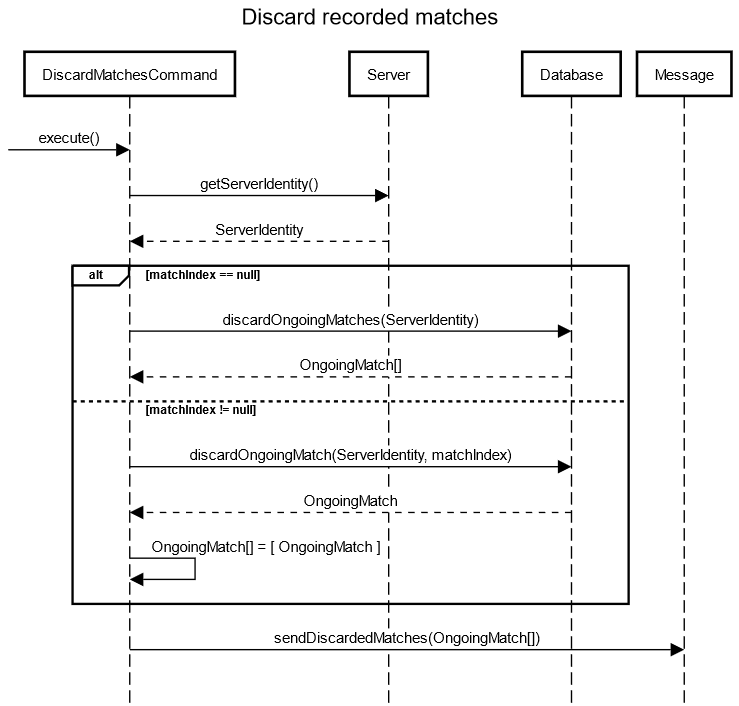
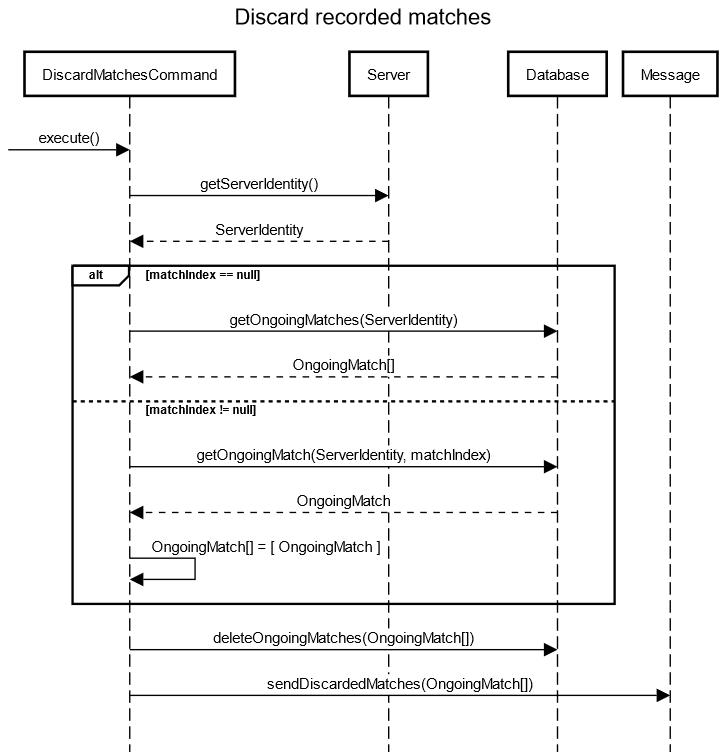
Refactored inefficiencies in commands and updated documentation

diff --git a/src/mongo/MongoDatabase.ts b/src/mongo/MongoDatabase.ts
@@ -76,33 +76,46 @@ export class MongoDatabase implements Database {
         await this.dao.insert(Collection.ONGOING_MATCHES, ongoingMatch);
     }
 
-    public async insertCompletedMatch(completedMatch: CompletedMatch): Promise<void> {
-        await this.dao.insert(Collection.COMPLETED_MATCHES, completedMatch);
-        await this.insertStatsForCompletedMatch(completedMatch); 
+    public async insertCompletedMatches(completedMatches: CompletedMatch[]): Promise<void> {
+        await this.dao.insertMany(Collection.COMPLETED_MATCHES, completedMatches);
+        await this.insertStatsForCompletedMatches(completedMatches);
     }
 
-    public async deleteOngoingMatch(match: OngoingMatch): Promise<void> {
+    public async deleteOngoingMatches(matches: OngoingMatch[]): Promise<void> {
         throw new Error("Method not implemented.");
     }
 
-    public async insertStatsForCompletedMatch(completedMatch: CompletedMatch): Promise<void> {
-        const summonerOperations: AnyBulkWriteOperation[] = new BulkOperationBuilder()
-            .addInsertSummonerStatsOperations(completedMatch.blue, completedMatch.minutesPlayed)
-            .addInsertSummonerStatsOperations(completedMatch.red, completedMatch.minutesPlayed)
-            .build();
-
-        const championOperations: AnyBulkWriteOperation[] = new BulkOperationBuilder()
-            .addInsertBanOperations(completedMatch.blue.bans)
-            .addInsertBanOperations(completedMatch.red.bans)
-            .addInsertChampionStatsOperations(completedMatch.blue, completedMatch.minutesPlayed)
-            .addInsertChampionStatsOperations(completedMatch.red, completedMatch.minutesPlayed)
-            .build();
+    private async insertStatsForCompletedMatches(completedMatches: CompletedMatch[]): Promise<void>{
+        const summonerOperations: AnyBulkWriteOperation[] = this.getSummonerStatsOperations(completedMatches);
+        const championOperations: AnyBulkWriteOperation[] = this.getChampionStatsOperations(completedMatches);
 
         const results: PromiseSettledResult<BulkWriteResult>[] = await Promise.allSettled([
             this.dao.bulk(Collection.SUMMONER_STATS, summonerOperations),
             this.dao.bulk(Collection.CHAMPION_STATS, championOperations)
         ]);
 
-        console.log(results); //this would be where we check the errors 
+        this.errorHandler.throwIfCompletedMatchStatsInsertionErrors(results);
+    }
+
+    private getSummonerStatsOperations(completedMatches: CompletedMatch[]): AnyBulkWriteOperation[] {
+        const builder: BulkOperationBuilder = new BulkOperationBuilder();
+        for(const match of completedMatches){
+            builder
+                .addInsertSummonerStatsOperations(match.blue, match.minutesPlayed)
+                .addInsertSummonerStatsOperations(match.red, match.minutesPlayed);
+        }
+        return builder.build();
+    }
+
+    private getChampionStatsOperations(completedMatches: CompletedMatch[]): AnyBulkWriteOperation[] {
+        const builder: BulkOperationBuilder = new BulkOperationBuilder();
+        for(const match of completedMatches){
+            builder
+                .addInsertBanOperations(match.blue.bans)
+                .addInsertBanOperations(match.red.bans)
+                .addInsertChampionStatsOperations(match.blue, match.minutesPlayed)
+                .addInsertChampionStatsOperations(match.red, match.minutesPlayed);
+        }
+        return builder.build();  
     }
 }

diff --git a/test/core/concretions/commands/KeepMatchesCommand.spec.ts b/test/core/concretions/commands/KeepMatchesCommand.spec.ts
@@ -30,27 +30,26 @@ describe('KeepMatchesCommand', () => {
         const command: KeepMatchesCommand = new KeepMatchesCommand([]);
         await command.execute(contextMock.object);
 
-        for(const completedMatch of completedMatches)
-            contextMock.databaseMock.verify(x => x.insertCompletedMatch(completedMatch), Times.once());
+        contextMock.databaseMock.verify(x => x.insertCompletedMatches(completedMatches), Times.once());
         contextMock.messageMock.verify(x => x.replyWithKeptMatches(completedMatches), Times.once());
     });
 
     it('execute(): replies to the message appropriately when given a matchIndex', async () => {
         const ongoingMatch: OngoingMatch = dummyFactory.createOngoingMatch();
-        const completedMatch: CompletedMatch = dummyFactory.createCompletedMatch();
+        const completedMatches: CompletedMatch[] = [ dummyFactory.createCompletedMatch() ];
         const index: number = 1;
         contextMock.databaseMock
             .setup(x => x.getOngoingMatch(serverIdentity, index))
             .returns(async () => ongoingMatch);
         contextMock.matchFetcherMock
             .setup(x => x.getCompletedMatch(ongoingMatch))
-            .returns(async () => completedMatch);
+            .returns(async () => completedMatches[0]);
         
         const command: KeepMatchesCommand = new KeepMatchesCommand([ index + "" ]);
         await command.execute(contextMock.object);
 
-        contextMock.databaseMock.verify(x => x.insertCompletedMatch(completedMatch), Times.once());
-        contextMock.messageMock.verify(x => x.replyWithKeptMatches([ completedMatch ]), Times.once());
+        contextMock.databaseMock.verify(x => x.insertCompletedMatches(completedMatches), Times.once());
+        contextMock.messageMock.verify(x => x.replyWithKeptMatches(completedMatches), Times.once());
     });
 
     function setupOngoingMatchesToCompletedAndGetList(ongoingMatches: OngoingMatch[]): CompletedMatch[]{

diff --git a/test/core/concretions/commands/DiscardMatchesCommand.spec.ts b/test/core/concretions/commands/DiscardMatchesCommand.spec.ts
@@ -29,22 +29,21 @@ describe('DiscardMatchesCommand', () => {
         const command: DiscardMatchesCommand = new DiscardMatchesCommand([]);
         await command.execute(contextMock.object);
 
-        for(const match of matches)
-            contextMock.databaseMock.verify(x => x.deleteOngoingMatch(match), Times.once());
+        contextMock.databaseMock.verify(x => x.deleteOngoingMatches(matches), Times.once());
         contextMock.messageMock.verify(x => x.replyWithDiscardedMatches(matches), Times.once());
     });
 
     it('execute(): replies to the message appropriately when given a matchIndex', async () => {
-        const match: OngoingMatch = dummyFactory.createOngoingMatch();
+        const matches: OngoingMatch[] = [ dummyFactory.createOngoingMatch() ];
         const index: number = 1;
         contextMock.databaseMock
             .setup(x => x.getOngoingMatch(serverIdentity, index))
-            .returns(async () => match);
+            .returns(async () => matches[0]);
         
         const command: DiscardMatchesCommand = new DiscardMatchesCommand([ index + "" ]);
         await command.execute(contextMock.object);
 
-        contextMock.databaseMock.verify(x => x.deleteOngoingMatch(match), Times.once());
-        contextMock.messageMock.verify(x => x.replyWithDiscardedMatches([ match ]), Times.once());
+        contextMock.databaseMock.verify(x => x.deleteOngoingMatches(matches), Times.once());
+        contextMock.messageMock.verify(x => x.replyWithDiscardedMatches(matches), Times.once());
     });
 });

diff --git a/src/core/concretions/commands/KeepMatchesCommand.ts b/src/core/concretions/commands/KeepMatchesCommand.ts
@@ -16,12 +16,19 @@ export class KeepMatchesCommand implements Command{
 
     public async execute(context: Context): Promise<void> {
         const ongoingMatches: OngoingMatch[] = await this.utils.getOngoingMatches(context, this.matchIndex);
+        const completedMatches: CompletedMatch[] = await this.fetchCompletedMatches(context, ongoingMatches);
+
+        await context.database.insertCompletedMatches(completedMatches);
+        await context.database.deleteOngoingMatches(ongoingMatches);
+        await context.message.replyWithKeptMatches(completedMatches);
+    }
+
+    private async fetchCompletedMatches(context: Context, ongoingMatches: OngoingMatch[]): Promise<CompletedMatch[]>{
         const completedMatches: CompletedMatch[] = [];
         for(const ongoingMatch of ongoingMatches){
             const completedMatch: CompletedMatch = await context.matchFetcher.getCompletedMatch(ongoingMatch);
-            await context.database.insertCompletedMatch(completedMatch);
             completedMatches.push(completedMatch);
         }
-        await context.message.replyWithKeptMatches(completedMatches);
+        return completedMatches;
     }
 }

diff --git a/test/mongo/MongoDatabase.spec.ts b/test/mongo/MongoDatabase.spec.ts
@@ -6,7 +6,7 @@ import { DummyModelFactory } from "../utils";
 
 import { config as loadEnvironmentVariables } from "dotenv";
 
-xdescribe('MongoDatabase', () => {
+describe('MongoDatabase', () => {
 
     let modelFactory: DummyModelFactory = new DummyModelFactory();
     let database: MongoDatabase;
@@ -20,12 +20,12 @@ xdescribe('MongoDatabase', () => {
         await database.initialize();
     });
 
-    it('upsertAccount(): should add a new account if no errors occur', async () => {
+    xit('upsertAccount(): should add a new account if no errors occur', async () => {
         const account: Account = modelFactory.createAccount();
         await database.upsertAccount(account);
     });
 
-    it('upsertAccount(): should fail if an error occurs', async () => {
+    xit('upsertAccount(): should fail if an error occurs', async () => {
         const account: Account = modelFactory.createAccount();
         await database.upsertAccount(account);
     });

diff --git a/src/mock/MockDatabase.ts b/src/mock/MockDatabase.ts
@@ -103,11 +103,15 @@ export class MockDatabase implements Database {
         this.ongoingMatches.push(ongoingMatch);
     }
 
-    public async insertCompletedMatch(completedMatch: CompletedMatch): Promise<void> {
-        this.completedMatches.push(completedMatch);
+    public async insertCompletedMatches(completedMatches: CompletedMatch[]): Promise<void> {
+        this.completedMatches.push(...completedMatches);
     }
 
-    public async deleteOngoingMatch(match: OngoingMatch): Promise<void> {
+    public  async deleteOngoingMatches(matches: OngoingMatch[]): Promise<void> {
+        matches.forEach(x => this.deleteOngoingMatch(x));
+    }
+
+    private async deleteOngoingMatch(match: OngoingMatch): Promise<void> {
         const index: number = this.ongoingMatches.indexOf(match);
         if(index != -1)
             this.ongoingMatches.splice(index, 1);

diff --git a/src/core/concretions/commands/CommandUtils.ts b/src/core/concretions/commands/CommandUtils.ts
@@ -4,14 +4,11 @@ import { BotError, ErrorCode } from '../BotError';
 
 export class CommandUtils{
     public async getSummoner(context: Context, summonerName?: string): Promise<Summoner>{
-        if(summonerName){
+        if(summonerName)
             return await context.summonerFetcher.getSummoner(summonerName);
-        }
-        else{
-            const user: User = context.message.getAuthor();
-            const account: Account = await context.database.getAccount(user);
-            return account.summoner;
-        }
+        const user: User = context.message.getAuthor();
+        const account: Account = await context.database.getAccount(user);
+        return account.summoner;
     }
 
     public async getOngoingMatches(context: Context, matchIndex?: number): Promise<OngoingMatch[]>{

diff --git a/src/mongo/ErrorHandler.ts b/src/mongo/ErrorHandler.ts
@@ -1,4 +1,4 @@
-import { MongoServerError } from "mongodb";
+import { BulkWriteResult, MongoServerError } from "mongodb";
 import { BotError, ErrorCode } from "../../src/core/concretions";
 import { IndexKey } from "./enums";
 
@@ -23,6 +23,10 @@ export class ErrorHandler{
             return new BotError(ErrorCode.ACCOUNT_SUMMONER_ID_IN_DB);
         else
             return this.handleGenericError(error);
+    }
+
+    public throwIfCompletedMatchStatsInsertionErrors(insertionResults: PromiseSettledResult<BulkWriteResult>[]): void{
+        console.log(insertionResults);
     }
 
     private isErrorDuplicateKey(error: any, key: string): boolean{

diff --git a/src/mongo/dao/Dao.ts b/src/mongo/dao/Dao.ts
@@ -4,6 +4,7 @@ import { Collection } from "../enums";
 export interface Dao{
     initialize(url: string, database: string): Promise<void>;
     insert(collection: Collection, document: Document): Promise<void>;
+    insertMany(collection: Collection, documents: Document[]): Promise<void>;
     upsert(collection: Collection, filter: Filter<Document>, update: Document): Promise<void>;
     find(collection: Collection, filter: Filter<Document>): Promise<Document | null>;
     findMany(collection: Collection, filter: Filter<Document>): Promise<Document[]>;

diff --git a/src/core/abstractions/Database.ts b/src/core/abstractions/Database.ts
@@ -10,6 +10,6 @@ export interface Database{
     getOngoingMatch(serverIdentity: ServerIdentity, index: number): Promise<OngoingMatch>;
     upsertAccount(account: Account): Promise<void>;
     insertOngoingMatch(ongoingMatch: OngoingMatch): Promise<void>;
-    insertCompletedMatch(completedMatch: CompletedMatch): Promise<void>;
-    deleteOngoingMatch(matches: OngoingMatch): Promise<void>;
+    insertCompletedMatches(completedMatches: CompletedMatch[]): Promise<void>;
+    deleteOngoingMatches(matches: OngoingMatch[]): Promise<void>;
 }

diff --git a/src/mongo/dao/MongoDao.ts b/src/mongo/dao/MongoDao.ts
@@ -27,6 +27,10 @@ export class MongoDao implements Dao{
         await this.database.collection(collection).insertOne(document);
     }
 
+    public async insertMany(collection: Collection, documents: Document[]): Promise<void> {
+        await this.database.collection(collection).insertMany(documents);
+    }
+
     public async upsert(collection: Collection, filter: Filter<Document>, update: Document): Promise<void> {
         await this.database.collection(collection).updateOne(filter, update, { upsert: true });
     }

diff --git a/src/core/concretions/commands/RecordMatchCommand.ts b/src/core/concretions/commands/RecordMatchCommand.ts
@@ -17,7 +17,6 @@ export class RecordMatchCommand implements Command{
     public async execute(context: Context): Promise<void> {
         const summoner: Summoner = await this.utils.getSummoner(context, this.summonerName);
         const serverIdentity: ServerIdentity = context.server.getIdentity();
-
         const match: OngoingMatch = await context.matchFetcher.getOngoingMatch(summoner, serverIdentity);
         const prediction: Prediction = await context.predictor.predict(match);
         
